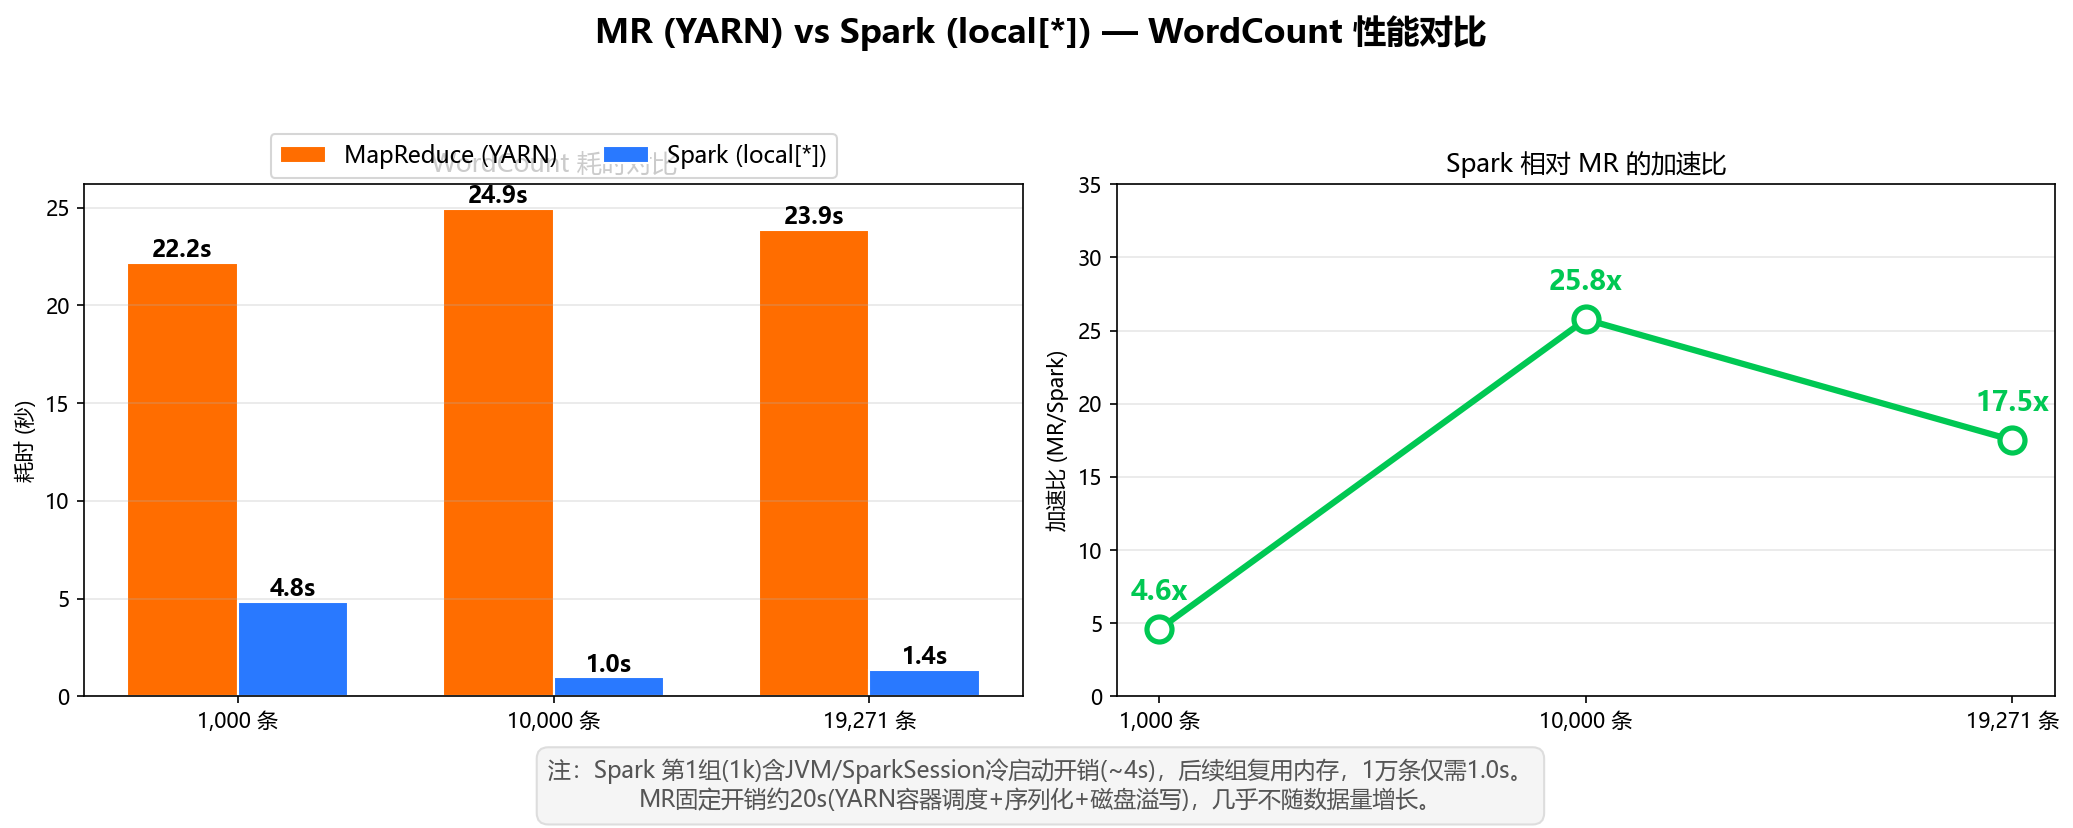
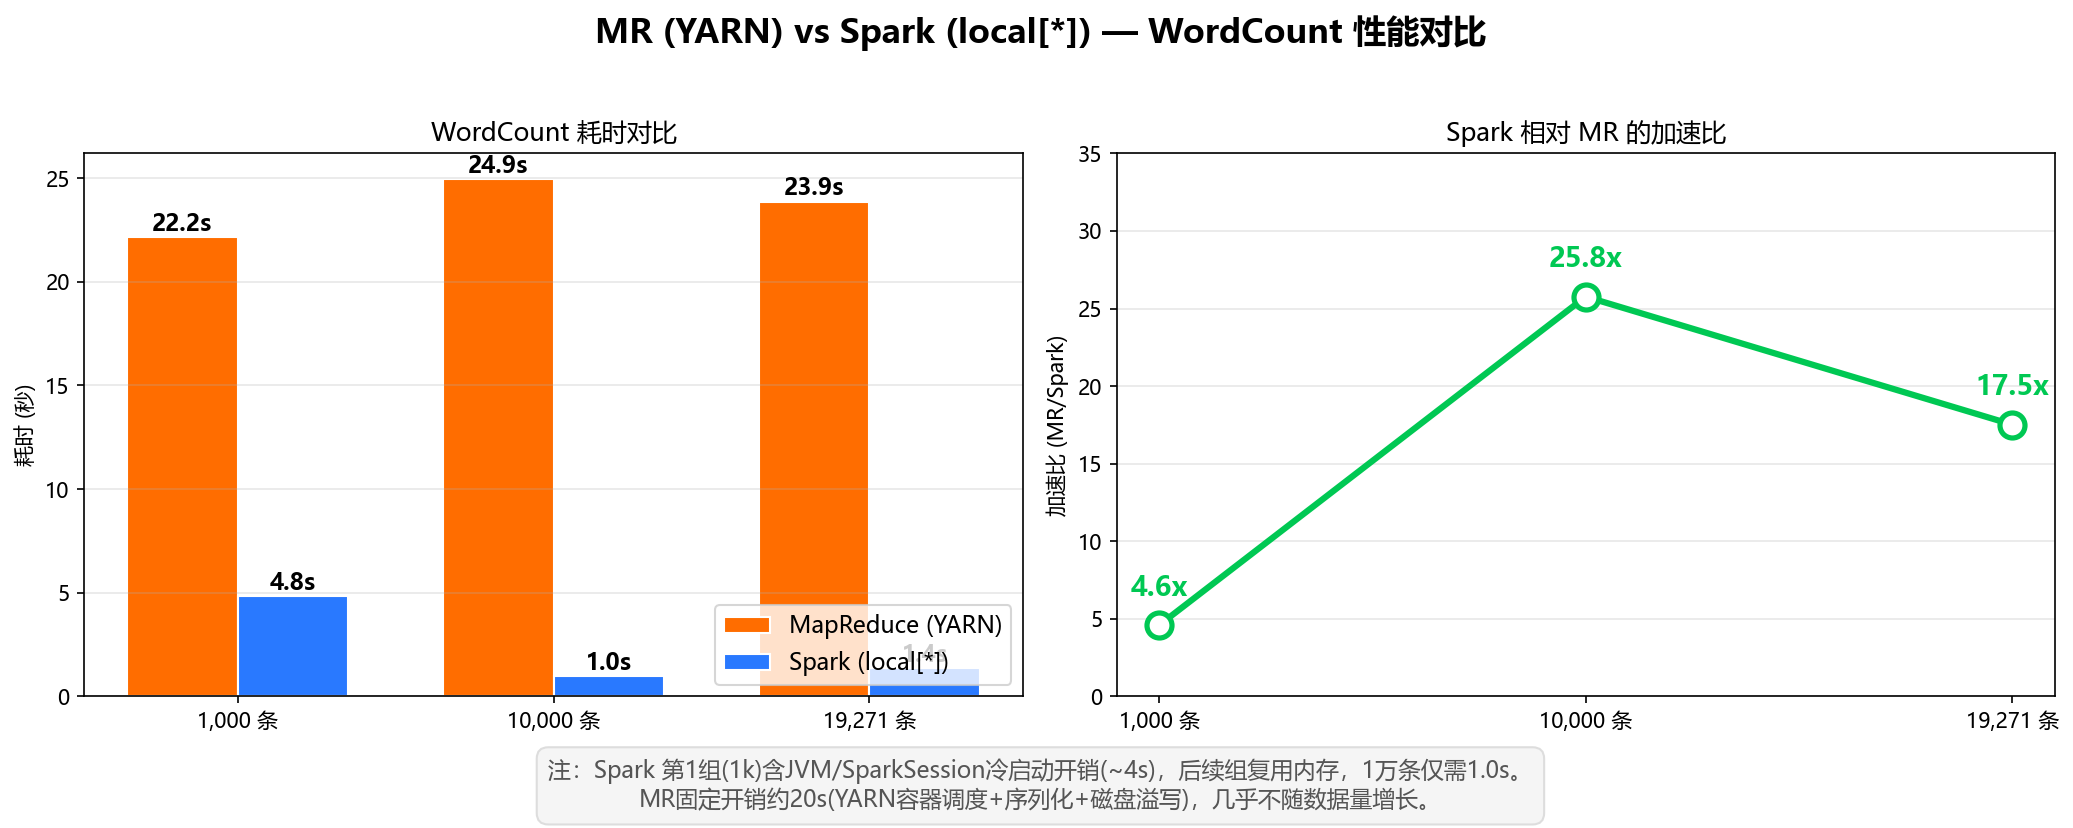
fix: MR图例移到右下角，远离标题区

diff --git a/spark/plot_mr_vs_spark.py b/spark/plot_mr_vs_spark.py
@@ -31,7 +31,7 @@ axes[0].set_ylabel('耗时 (秒)')
 axes[0].set_title('WordCount 耗时对比')
 axes[0].set_xticks(x)
 axes[0].set_xticklabels(datasets)
-axes[0].legend(fontsize=11, loc='upper center', bbox_to_anchor=(0.5, 1.12), ncol=2)
+axes[0].legend(fontsize=11, loc='lower right')
 axes[0].grid(axis='y', alpha=0.3)
 
 # 柱上标数值